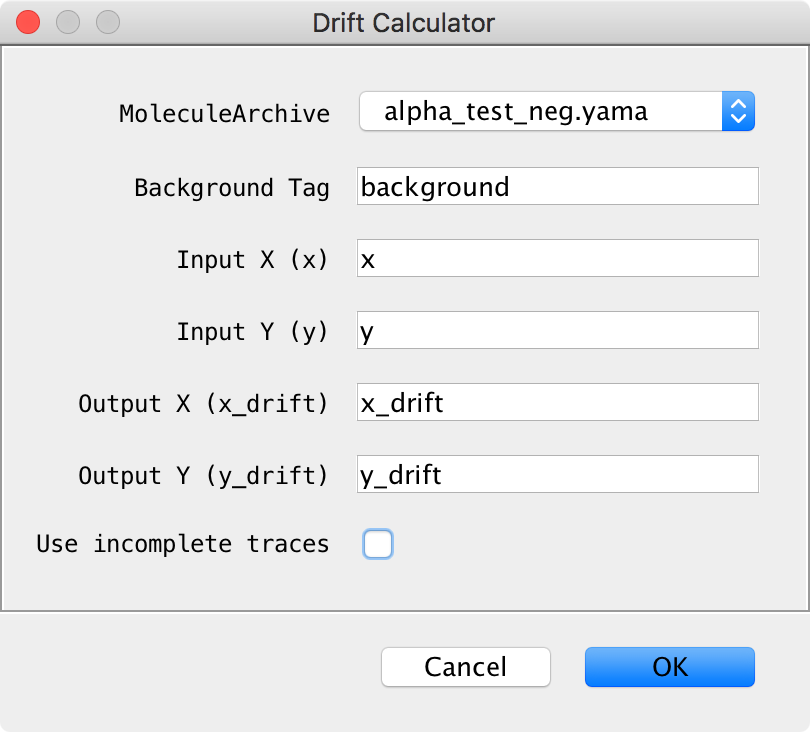
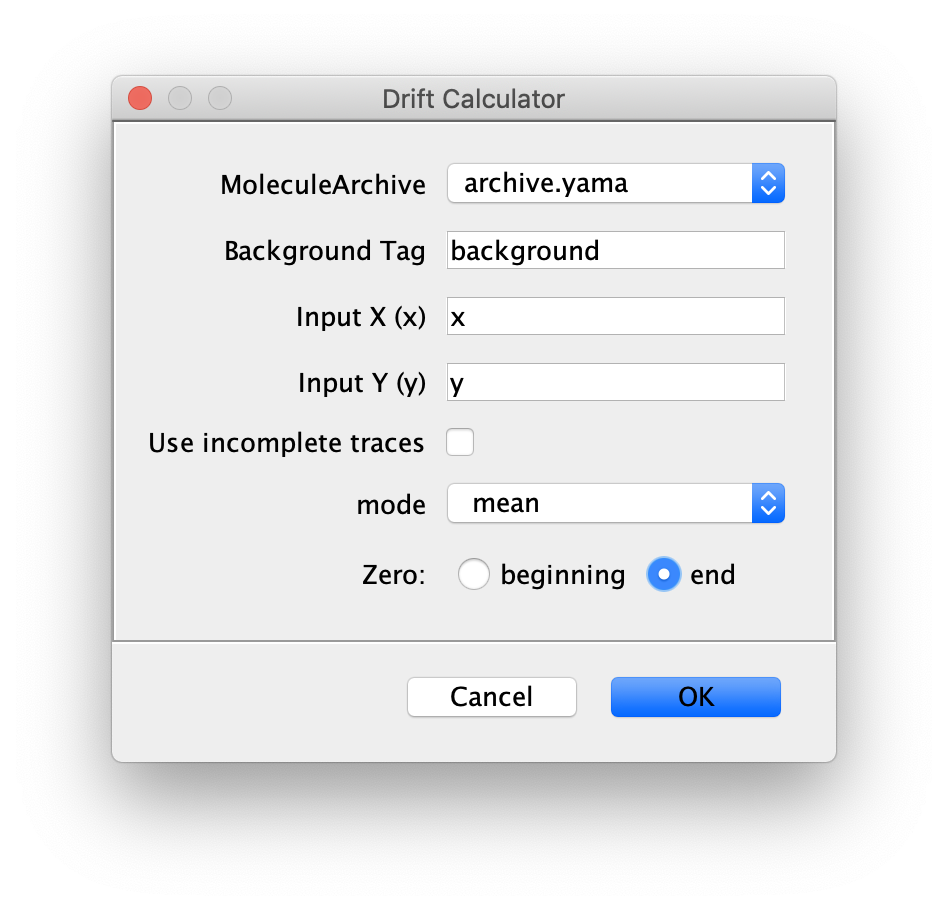
OME modifications to docs

diff --git a/docs/molecule/DriftCalculator.md b/docs/molecule/DriftCalculator.md
@@ -3,28 +3,27 @@ layout: molecule
 title: Drift Calculator
 permalink: /docs/molecule/DriftCalculator/index.html
 ---
-This command calculates the sample drift given a MoleculeArchive and a tag corresponding to all immobile molecules. Then calculates the mean x and y position for each slice from those immobile molecules and places the results into each ImageMetaData record's datatable with the column headings x_drift and y_drift:
-<img align='center' src='{{site.baseurl}}/docs/molecule/img/ImageMetaData Drift.png' width='750' />
+This command calculates the sample drift given a MoleculeArchive and a tag corresponding to all immobile molecules. Then calculates the mean or median x and y position for each slice from those immobile molecules and places the results into the metadata as x_drift and y_drift.
 
-This command can also be used to calculate other kinds of background besides drift. For example, if you have changes in flow, you could add that in a second set of columns to the ImageMetaData table and correct for it.
-
-The command is intended to be used together with the [[DriftCorrector]]. First, you calculate the drift with this command and then you correct for it using the [DriftCorrector](../DriftCorrector).
+The command is intended to be used together with the [DriftCorrector](../DriftCorrector). First, you calculate the drift with this command and then you correct for it using the [DriftCorrector](../DriftCorrector).
 
 #### Inputs
 
 * *MoleculeArchive* - MoleculeArchive to calculate drift for.
-* *Background Tag* - The tag added to all molecules that should be used to calculate background. For a bead experiment, this tag can be added to all beads that don't reverse beyond a certain point and have an MSD below a certain threshold. Typically for bead experiments the tags are added using custom groovy scripts.
+* *Background Tag* - The tag added to all molecules that should be used to calculate background.
 * *Input X (x)* - The input x column to use the build the background trace. Usually this should just be x.
 * *Input Y (y)* - The input y column to use the build the background trace. Usually this should just be y.
-* *Output X (x_drift)* - The output column name used when the x background is added to the ImageMetaData table. Usually this should just be x_drift.
-* *Output Y (y_drift)* - The output column name used when the y background is added to the ImageMetaData table. Usually this should just be y_drift.
 * *Use incomplete traces* - Uses all traces for the drift calculation including those that do not have all slices, which sometimes happens when peak fitting fails for a certain frame. If there are no observations for a certain slice, then NaN is used.
+* *mode* - Select between using the 'mean' or 'median' x and y position.
+* *Zero* - Select between treating the starting point or then end point as zero.
 
 <img align='center' src='{{site.baseurl}}/docs/molecule/img/Drift Calculator.png' width='400' />
 
 #### Output
 
-* The MoleculeArchive provided as Input is modified. The drift information is added to the ImageMetaData table since it applies globally to all molecules within the given dataset.
+* The MoleculeArchive provided as Input is modified. The drift information is added to the metadata table 'Plane' since it applies globally to all molecules within the given dataset. In the example below the drift in all directions is 0 for the plane selected.
+
+<img align='center' src='{{site.baseurl}}/docs/molecule/img/img4.png' width='400' />
 
 ### How to run this Command from a groovy script
 
